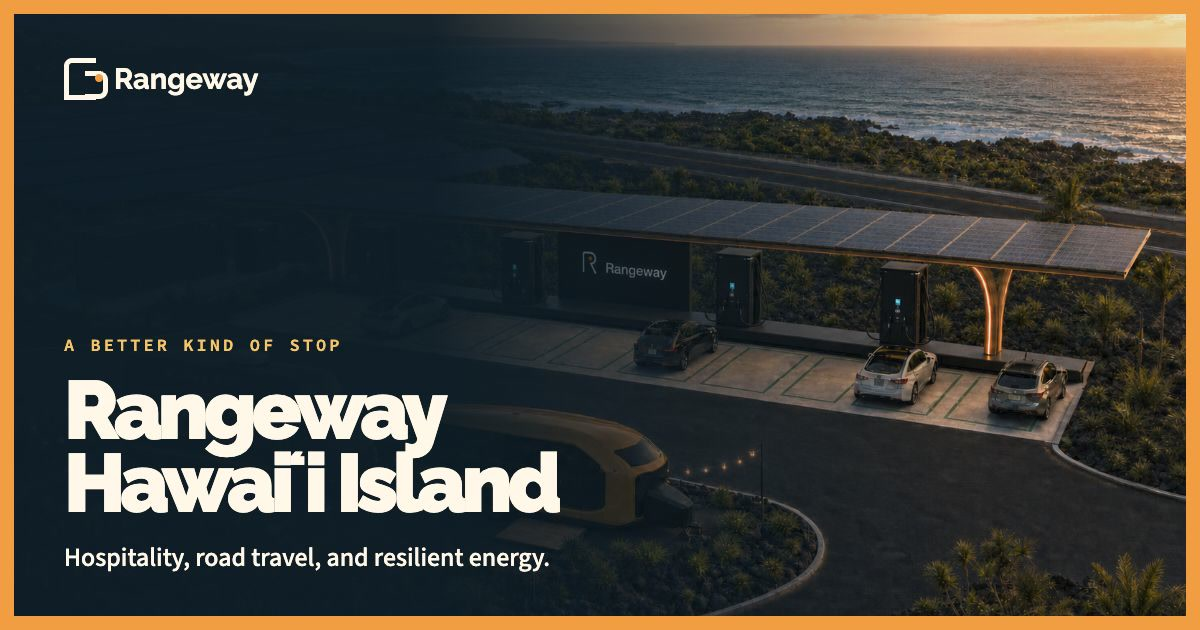
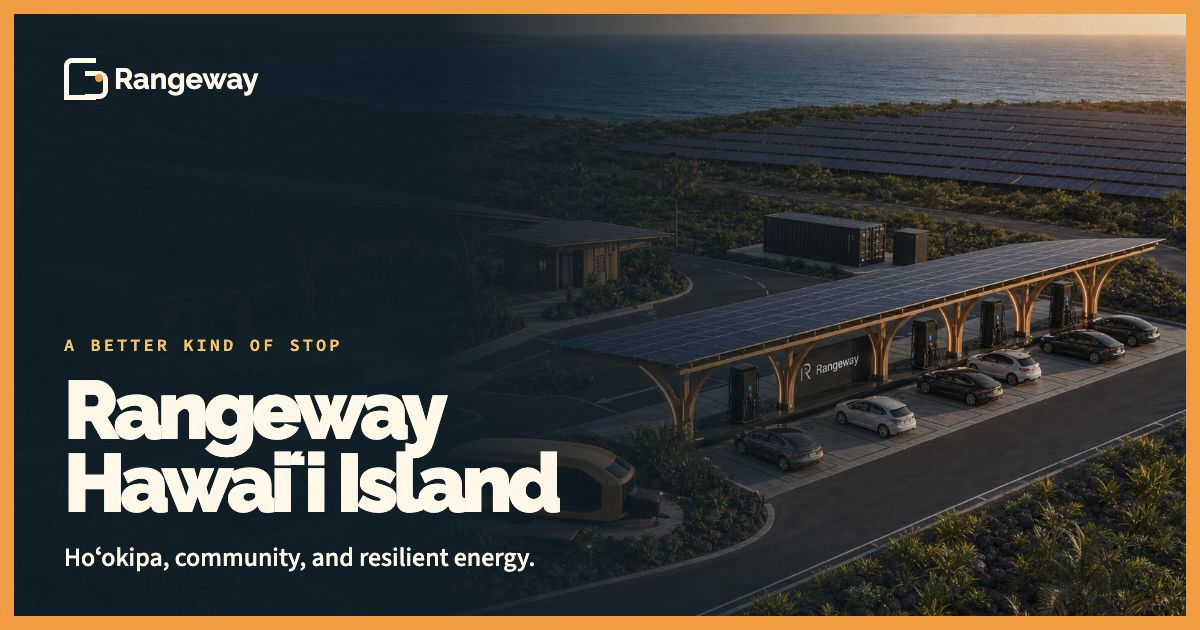
Refine Hawaii cultural story and concept progression

Changed region(s): [[0.4317, 0.0, 1.0, 0.9952], [0.0617, 0.8746, 0.4625, 0.9048], [0.4933, 0.9048, 0.555, 0.9349]]

diff --git a/index.html b/index.html
@@ -6,13 +6,13 @@
   <meta name="theme-color" content="#102b3a">
 
   <title>Rangeway Hawaiʻi Island | A better kind of stop</title>
-  <meta name="description" content="A hospitality-forward vision for EV charging on Hawaiʻi Island, designed around the journey, resilient energy, and a lasting sense of place.">
+  <meta name="description" content="A community-minded vision for EV charging on Hawaiʻi Island, shaped by hoʻokipa, local character, resilient energy, and the roads between remarkable places.">
   <link rel="canonical" href="https://hawaii.rangeway.co/">
   <link rel="icon" type="image/svg+xml" href="/favicon.svg">
 
   <meta property="og:type" content="website">
   <meta property="og:title" content="Rangeway Hawaiʻi Island | A better kind of stop">
-  <meta property="og:description" content="A hospitality-forward vision for charging, road travel, and resilient energy on Hawaiʻi Island.">
+  <meta property="og:description" content="A community-minded vision for charging and hoʻokipa along the roads of Hawaiʻi Island.">
   <meta property="og:image" content="https://hawaii.rangeway.co/images/rangeway-hawaii-social.jpg">
   <meta property="og:image:width" content="1200">
   <meta property="og:image:height" content="630">
@@ -21,7 +21,7 @@
   <meta property="og:site_name" content="Rangeway">
   <meta name="twitter:card" content="summary_large_image">
   <meta name="twitter:title" content="Rangeway Hawaiʻi Island | A better kind of stop">
-  <meta name="twitter:description" content="A hospitality-forward vision for charging, road travel, and resilient energy on Hawaiʻi Island.">
+  <meta name="twitter:description" content="A community-minded vision for charging and hoʻokipa along the roads of Hawaiʻi Island.">
   <meta name="twitter:image" content="https://hawaii.rangeway.co/images/rangeway-hawaii-social.jpg">
 
   <link rel="preconnect" href="https://fonts.googleapis.com">
@@ -35,7 +35,7 @@
       "@type": "WebSite",
       "name": "Rangeway Hawaiʻi Island",
       "url": "https://hawaii.rangeway.co/",
-      "description": "A hospitality-forward vision for EV charging on Hawaiʻi Island.",
+      "description": "A community-minded vision for EV charging on Hawaiʻi Island, shaped by hoʻokipa and a strong sense of place.",
       "publisher": {
         "@type": "Organization",
         "name": "Rangeway",
@@ -91,18 +91,18 @@
     <!-- HERO: an oversized island title anchored to an approved coastal concept vision -->
     <section class="cover" aria-labelledby="cover-title">
       <div class="cover__story">
-        <p class="cover__kicker">Island roads · Local character · Resilient energy</p>
+        <p class="cover__kicker">Hawaiʻi Island roads · Community first · Hoʻokipa</p>
         <h1 id="cover-title">
           <span>Rangeway</span>
-          <span>Hawaiʻi.</span>
+          <span>Hawaiʻi</span>
         </h1>
-        <p class="cover__lede">A hospitality-forward vision for charging on Hawaiʻi Island, designed around the journey and made to feel of this place.</p>
+        <p class="cover__lede">A vision for places to charge, rest, and reconnect along Hawaiʻi Island’s long roads, shaped by hoʻokipa and the character of each community.</p>
         <a class="cover__action" href="#opportunity">Follow the road <span aria-hidden="true">→</span></a>
       </div>
 
       <figure class="cover__image">
-        <img src="/images/hawaii-basecamp-phase1.webp" alt="Concept visualization of a coastal Rangeway charging stop with solar canopies, a food truck, and a mobile lounge" fetchpriority="high" width="1672" height="941">
-        <figcaption>Concept vision · No site announced</figcaption>
+        <img src="/images/hawaii-basecamp-long-view.webp" alt="Aerial Phase Two concept visualization of a future Rangeway charging and hospitality destination with solar canopies and island-inspired structures" fetchpriority="high" width="1672" height="941">
+        <figcaption>Phase Two concept vision · No site announced</figcaption>
       </figure>
     </section>
 
@@ -110,21 +110,21 @@
       <div class="container">
         <div class="kicker reveal"><span>01 · The Opportunity</span></div>
         <div class="section-head reveal">
-          <h2>The island deserves stops that belong to the journey.</h2>
-          <p>Hawaiʻi Island is connected by long, remarkable drives between communities, landscapes, and coastlines. Charging can support that movement while giving drivers a place that feels useful, comfortable, and distinctly local.</p>
+          <h2>One island. Many roads, communities, and reasons to stop.</h2>
+          <p>The road through Kaʻū feels different from a crossing over Saddle Road or a drive along the Kona, Kohala, or Hāmākua coasts. A useful stop should respond to the community and landscape around it, not arrive as the same building everywhere.</p>
         </div>
 
         <ul class="route-note reveal" aria-label="Rangeway approach">
-          <li>Start with the place.</li>
-          <li>Design for the road.</li>
-          <li>Build with a long view.</li>
+          <li>Listen to community.</li>
+          <li>Learn the route.</li>
+          <li>Design for that place.</li>
         </ul>
 
         <div class="split-copy reveal">
-          <p class="split-copy__lead">The best roadside places do more than solve a practical need. They give the road a little character.</p>
+          <p class="split-copy__lead">A useful stop should feel like it grew from the road beside it.</p>
           <div>
-            <p>Rangeway imagines charging as one part of a thoughtful island stop, with shade, clean and comfortable places to reset, regional food and products, and useful information for the road ahead.</p>
-            <p>The idea takes cues from the Japanese <i lang="ja">michi no eki</i>, or road station, while leaving room for each Hawaiʻi Island location to respond to its own community and landscape.</p>
+            <p>Rangeway imagines charging as one part of a place made for the realities of island travel, with shade from the sun, shelter from the rain, clean and comfortable places to reset, and room for local food, products, and stories.</p>
+            <p>The Japanese <i lang="ja">michi no eki</i>, or road station, offers a useful starting point. A Hawaiʻi Island expression cannot be copied in from somewhere else. It has to be shaped with the people who know the place.</p>
           </div>
         </div>
       </div>
@@ -135,8 +135,8 @@
       <div class="cinema__wash"></div>
       <div class="container cinema__content reveal">
         <div class="kicker kicker--dark"><span>02 · Hospitality</span></div>
-        <h2 id="hospitality-title">Hospitality is the infrastructure people remember.</h2>
-        <p>We think like hotel operators, not utility companies. The experience starts with a reliable charge, then extends to the details that make time on the road feel cared for.</p>
+        <h2 id="hospitality-title">Hoʻokipa begins with the relationship between host, guest, and place.</h2>
+        <p>The Hawaiian value of hoʻokipa asks more than good service. It carries a responsibility to welcome with care and respect for place. For Rangeway, that means listening before designing and making room for local people, food, products, and stories to give each stop its character.</p>
         <p class="concept-label">Concept visualization · Long-term design study</p>
       </div>
     </section>
@@ -145,36 +145,36 @@
       <div class="container">
         <div class="kicker reveal"><span>03 · Resilient Energy</span></div>
         <div class="section-head reveal">
-          <h2>Designed to work with the island, not against it.</h2>
-          <p>Where a location calls for it, solar generation and battery storage can support fast charging, improve resilience, and reduce reliance on constrained grid infrastructure.</p>
+          <h2>Resilience has to respond to the road it serves.</h2>
+          <p>An upland crossing, a coastal community, and a rural town will not share the same site or operating conditions. Energy systems would be planned place by place, with solar generation and battery storage considered where they can support dependable charging.</p>
         </div>
 
         <div class="index-list reveal">
           <article class="index-row">
             <span class="index-row__number" aria-hidden="true">A</span>
-            <h3>Sunlight</h3>
-            <p>Solar canopies and nearby generation can turn an abundant island resource into useful energy for the road.</p>
+            <h3>Energy from place</h3>
+            <p>Where the site supports it, solar canopies and nearby generation can turn island sunlight into useful energy for the road.</p>
           </article>
           <article class="index-row">
             <span class="index-row__number" aria-hidden="true">B</span>
-            <h3>Storage</h3>
-            <p>Battery storage can hold energy, support dependable operations, and help a site respond to local grid conditions.</p>
+            <h3>Resilience for community</h3>
+            <p>Battery storage can support dependable operations and help a future location respond to its local grid conditions.</p>
           </article>
           <article class="index-row">
             <span class="index-row__number" aria-hidden="true">C</span>
-            <h3>Charging</h3>
-            <p>Fast, dependable charging is the anchor. The surrounding experience is what turns the stop into part of the journey.</p>
+            <h3>Charging for island travel</h3>
+            <p>Fast, dependable charging is the anchor. Shade, rest, food, and local knowledge turn the stop into a useful part of the journey.</p>
           </article>
         </div>
       </div>
     </section>
 
-    <section class="vision-plate" aria-label="Long-term concept vision">
+    <section class="vision-plate" aria-label="Concept evolution from Phase One to Phase Two">
       <figure>
-        <img src="/images/hawaii-basecamp-long-view.webp" alt="Aerial concept visualization of a future Rangeway charging and hospitality destination with solar canopies and island-inspired structures" loading="lazy" width="1672" height="941">
+        <img src="/images/hawaii-basecamp-phase1.webp" alt="Phase One concept visualization of a smaller coastal Rangeway charging stop with solar canopies, a food truck, and a mobile lounge" loading="lazy" width="1672" height="941">
         <figcaption>
-          <strong>A long-view design study</strong>
-          <span>Concept only · Final location, format, and scope remain open</span>
+          <strong>Start useful. Grow with the place.</strong>
+          <span>Phase One design study · A smaller roadside stop that could evolve toward the Phase Two vision above</span>
         </figcaption>
       </figure>
     </section>
@@ -183,30 +183,30 @@
       <div class="container">
         <div class="kicker kicker--dark reveal"><span>04 · The Rangeway Standard</span></div>
         <div class="section-head section-head--dark reveal">
-          <h2>A charging stop with a point of view.</h2>
-          <p>Every future location would be shaped site by site. The standard is not sameness. It is a consistent level of care.</p>
+          <h2>One standard of care, expressed differently in every community.</h2>
+          <p>A coastal stop, an upland crossing, and a small town should not look or feel interchangeable. The Rangeway standard is a consistent level of care, with the experience shaped around the place.</p>
         </div>
 
         <div class="standard-grid">
           <article class="standard-item reveal">
             <span>01</span>
-            <h3>Reliable by design</h3>
-            <p>Charging and energy systems planned around the conditions of each location.</p>
+            <h3>Listen before building</h3>
+            <p>Begin with local voices, community priorities, and the realities of the road.</p>
           </article>
           <article class="standard-item reveal">
             <span>02</span>
-            <h3>Comfort that matters</h3>
-            <p>Shade, restrooms, seating, and climate-conscious spaces designed around the driver.</p>
+            <h3>Hoʻokipa in practice</h3>
+            <p>Make the welcome tangible through shade, restrooms, seating, and spaces that feel cared for.</p>
           </article>
           <article class="standard-item reveal">
             <span>03</span>
-            <h3>Local at every turn</h3>
-            <p>Food, products, materials, and regional character that belong to the community around the stop.</p>
+            <h3>Local participation</h3>
+            <p>Create room for local food, products, materials, stories, and operators to shape the experience.</p>
           </article>
           <article class="standard-item reveal">
             <span>04</span>
-            <h3>Built for the long road</h3>
-            <p>A practical, durable platform that can grow thoughtfully without announcing a network before it exists.</p>
+            <h3>Useful for the long road</h3>
+            <p>Deliver dependable charging and a practical place to pause between Hawaiʻi Island communities.</p>
           </article>
         </div>
       </div>
@@ -216,12 +216,12 @@
       <div class="container">
         <div class="kicker reveal"><span>05 · Follow Along</span></div>
         <div class="updates__grid reveal">
-          <h2>The road ahead starts with listening.</h2>
+          <h2>A Hawaiʻi Island vision should begin with listening.</h2>
           <div>
-            <p>Rangeway is exploring what a thoughtful, long-term charging platform could look like on Hawaiʻi Island. Follow Field Notes for future updates or reach out to start a conversation.</p>
+            <p>Rangeway is exploring, not announcing, what a thoughtful long-term charging platform could look like here. We welcome perspectives from community members, cultural practitioners, local businesses, land stewards, and organizations that know the island’s roads.</p>
             <div class="updates__actions">
               <a class="button" href="https://fieldnotes.rangeway.co/" target="_blank" rel="noopener">Follow Field Notes <span aria-hidden="true">→</span></a>
-              <a class="text-link" href="mailto:hello@rangeway.co?subject=Rangeway%20Hawai%CA%BBi%20Island">Start a conversation <span aria-hidden="true">↗</span></a>
+              <a class="text-link" href="mailto:hello@rangeway.co?subject=Rangeway%20Hawai%CA%BBi%20Island">Share a perspective <span aria-hidden="true">↗</span></a>
             </div>
           </div>
         </div>

diff --git a/css/style.css b/css/style.css
@@ -143,6 +143,10 @@ h3 {
 }
 
 .masthead__site {
+  display: inline-flex;
+  height: 32px;
+  align-items: center;
+  align-self: center;
   margin-left: 7px;
   padding-left: 12px;
   border-left: 1px solid var(--light-border);
@@ -150,6 +154,7 @@ h3 {
   font-size: .69rem;
   font-weight: 700;
   letter-spacing: .16em;
+  line-height: 1;
   text-transform: uppercase;
 }
 
@@ -251,20 +256,6 @@ h3 {
   padding: clamp(52px, 8vw, 124px) var(--gutter);
   color: var(--highway);
   overflow: hidden;
-}
-
-.cover__story::after {
-  content: "ISLAND";
-  position: absolute;
-  right: -.14em;
-  bottom: -.22em;
-  color: rgb(16 43 58 / 7%);
-  font-family: var(--heading);
-  font-size: clamp(8rem, 20vw, 21rem);
-  font-weight: 900;
-  line-height: 1;
-  writing-mode: vertical-rl;
-  pointer-events: none;
 }
 
 .cover__kicker {
@@ -423,8 +414,13 @@ h3 {
   display: grid;
   grid-template-columns: minmax(0, 7fr) minmax(0, 4fr);
   gap: 36px clamp(40px, 7vw, 108px);
-  align-items: end;
+  align-items: center;
   margin-bottom: clamp(52px, 8vw, 108px);
+}
+
+.section-head h2,
+.updates__grid h2 {
+  margin-bottom: 0;
 }
 
 .section-head p {
@@ -479,6 +475,7 @@ h3 {
   display: grid;
   grid-template-columns: minmax(0, 6fr) minmax(0, 5fr);
   gap: clamp(36px, 7vw, 120px);
+  align-items: center;
   margin-top: clamp(60px, 8vw, 116px);
 }
 
@@ -559,7 +556,7 @@ h3 {
   display: grid;
   grid-template-columns: 56px minmax(0, 4fr) minmax(0, 6fr);
   gap: 28px;
-  align-items: start;
+  align-items: center;
   padding: clamp(31px, 4vw, 54px) 0;
   border-top: 1px solid var(--border);
 }
@@ -664,7 +661,7 @@ h3 {
   display: grid;
   grid-template-columns: minmax(0, 7fr) minmax(0, 4fr);
   gap: 36px clamp(40px, 7vw, 108px);
-  align-items: start;
+  align-items: center;
 }
 
 .updates__grid p {
@@ -880,13 +877,6 @@ h3 {
   .cover__story {
     padding-top: 62px;
     padding-bottom: 62px;
-  }
-
-  .cover__story::after {
-    right: -.2em;
-    bottom: -.17em;
-    font-size: 10rem;
-    writing-mode: initial;
   }
 
   .cover h1 {

diff --git a/tools/social-preview.html b/tools/social-preview.html
@@ -8,7 +8,7 @@
     body {
       position: relative;
       color: #fff8ea;
-      background: #102b3a url("../source-assets/hawaii-basecamp-phase1-1.png") center / cover no-repeat;
+      background: #102b3a url("../source-assets/hawaii-basecamp-phase2-1.png") center / cover no-repeat;
       font-family: "Raleway", sans-serif;
     }
     body::before {
@@ -103,7 +103,7 @@
     <div class="copy">
       <p class="eyebrow">A better kind of stop</p>
       <h1>Rangeway<br />Hawaiʻi Island</h1>
-      <p>Hospitality, road travel, and resilient energy.</p>
+      <p>Hoʻokipa, community, and resilient energy.</p>
     </div>
   </div>
 </body>

diff --git a/CONTENT_SOURCES.md b/CONTENT_SOURCES.md
@@ -1,0 +1,18 @@
+# Content sources
+
+The public language is governed by Rangeway's maintained Hawaiʻi Island project
+brief and disclosure boundaries. The site does not announce a location,
+partnership, public program, schedule, or rollout.
+
+## Cultural language
+
+The site uses `hoʻokipa` in its established hospitality sense:
+
+- University of Hawaiʻi System, “Hawaiian Word of the Week: Hoʻokipa”:
+  <https://www.hawaii.edu/news/2025/12/09/hawaiian-word-of-the-week-hookipa/>
+- Native Hawaiian Hospitality Association, Hoʻokipa training description:
+  <https://www.nahha.com/training>
+
+These references describe hoʻokipa as hospitality and as a relationship among
+host, guest, and place. The website uses the term as a design value, not as a
+claim of cultural authority.

diff --git a/README.md b/README.md
@@ -21,4 +21,6 @@ npm test
 npm run check
 ```
 
-See `SOURCE_ASSETS.md` for the approved concept-art provenance and `DEPLOY.md` for production operations.
+See `SOURCE_ASSETS.md` for the approved concept-art provenance,
+`CONTENT_SOURCES.md` for cultural-language references, and `DEPLOY.md` for
+production operations.
